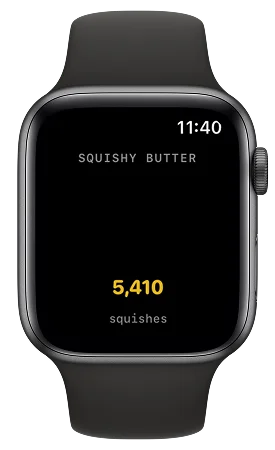
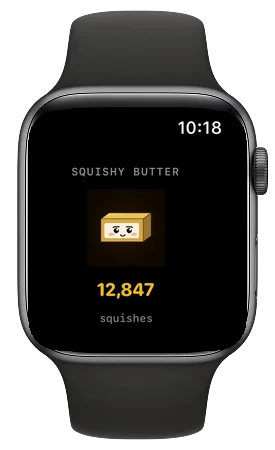
Squishy Butter: Watch picture shows the butter (fixed in 1.1.4)

diff --git a/squishy-butter.html b/squishy-butter.html
@@ -439,7 +439,7 @@
             <p>The same account follows you off the main screen: three home-screen widget sizes show your squish stats, the Apple Watch app keeps your count on your wrist, and every butter ships as an iMessage sticker bundled with the app.</p>
             <div style="display:flex;gap:1.5em;align-items:center;flex-wrap:wrap;margin-top:1.25em;">
                 <img src="assets/images/squishy-butter/widget-background-and-widgets.webp" alt="All three Squishy Butter widgets - large, medium, and small" width="1538" height="759" loading="lazy" decoding="async" style="height:auto;flex:1 1 360px;min-width:0;width:100%;display:block;border-radius:12px;">
-                <img src="assets/images/squishy-butter/squishy-watch.webp" alt="Squishy Butter Apple Watch app showing 5,410 squishes" width="275" height="450" loading="lazy" decoding="async" style="height:auto;flex:0 0 140px;width:140px;margin:0 auto;filter:drop-shadow(0 12px 24px rgba(0,0,0,0.22));">
+                <img src="assets/images/squishy-butter/squishy-watch.webp" alt="Squishy Butter Apple Watch app with the butter to tap and 12,847 squishes" width="275" height="450" loading="lazy" decoding="async" style="height:auto;flex:0 0 140px;width:140px;margin:0 auto;filter:drop-shadow(0 12px 24px rgba(0,0,0,0.22));">
             </div>
         </div>
 
